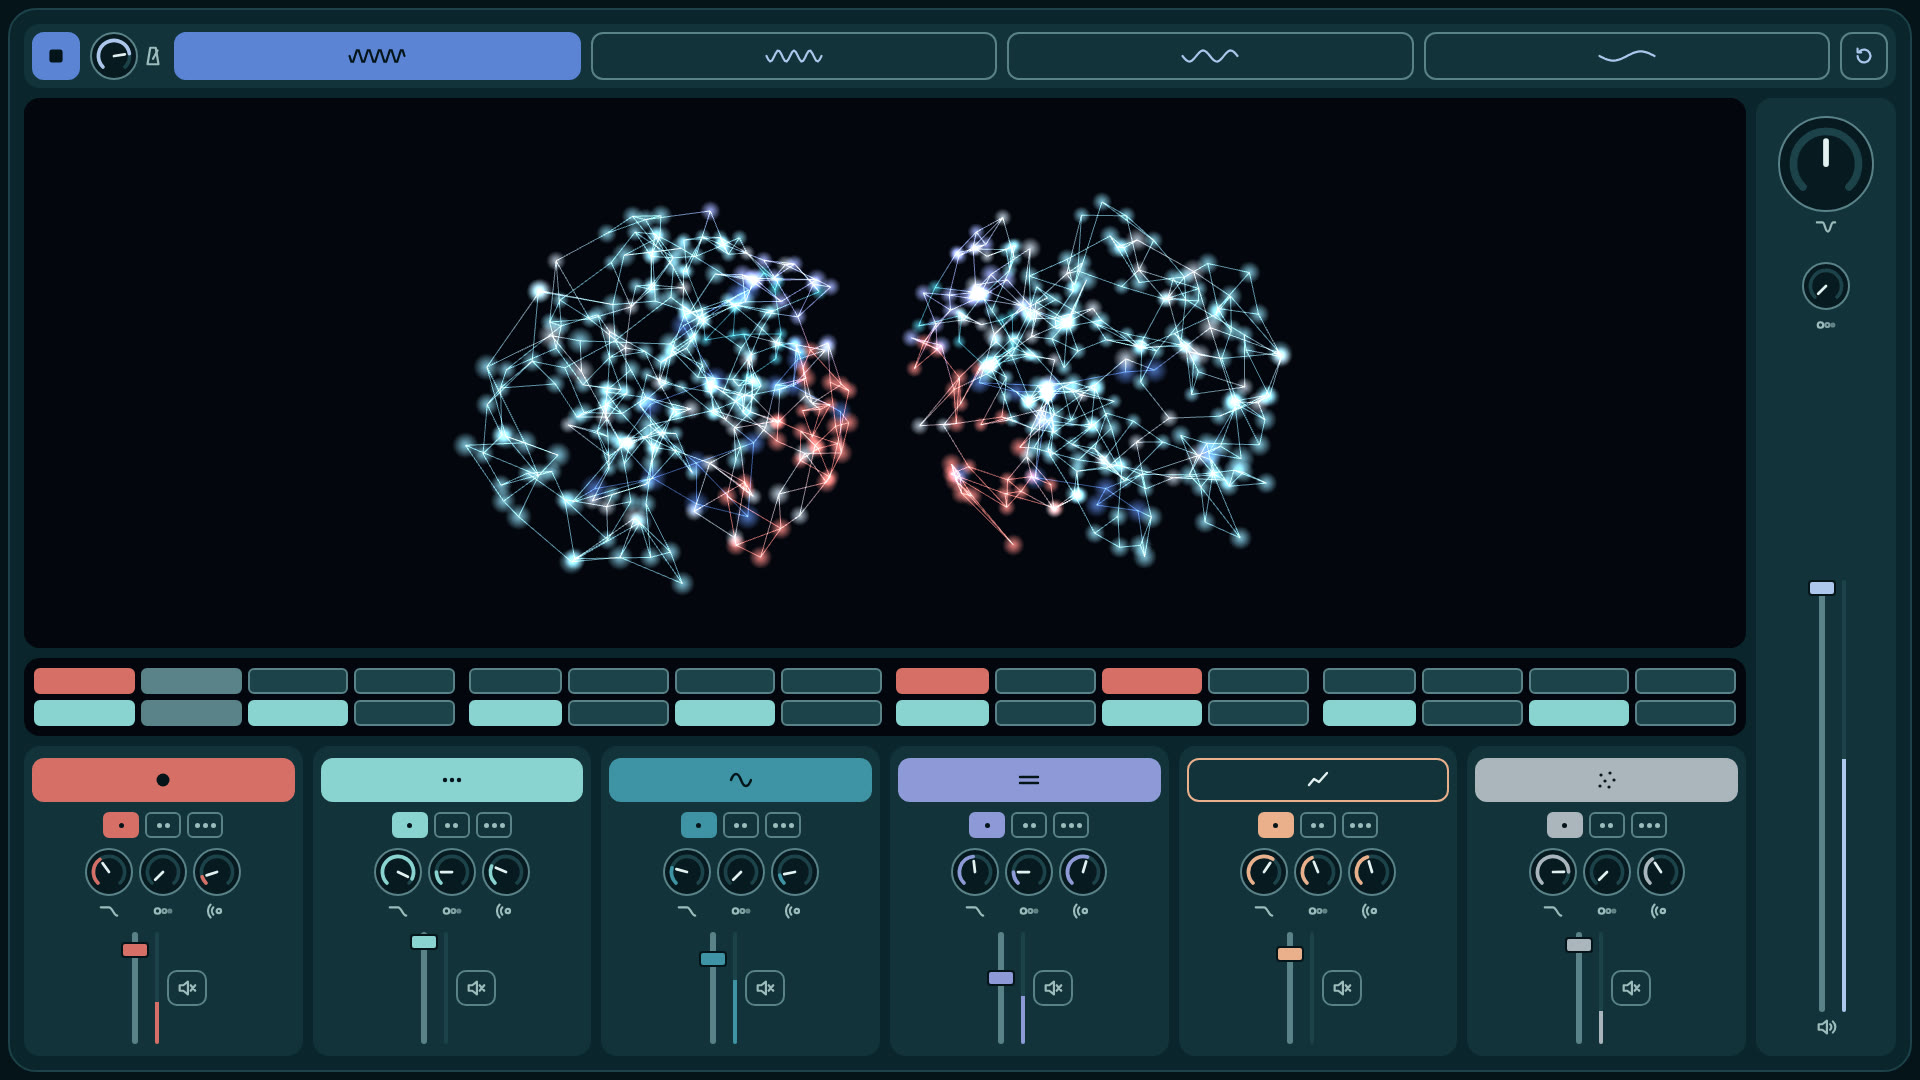
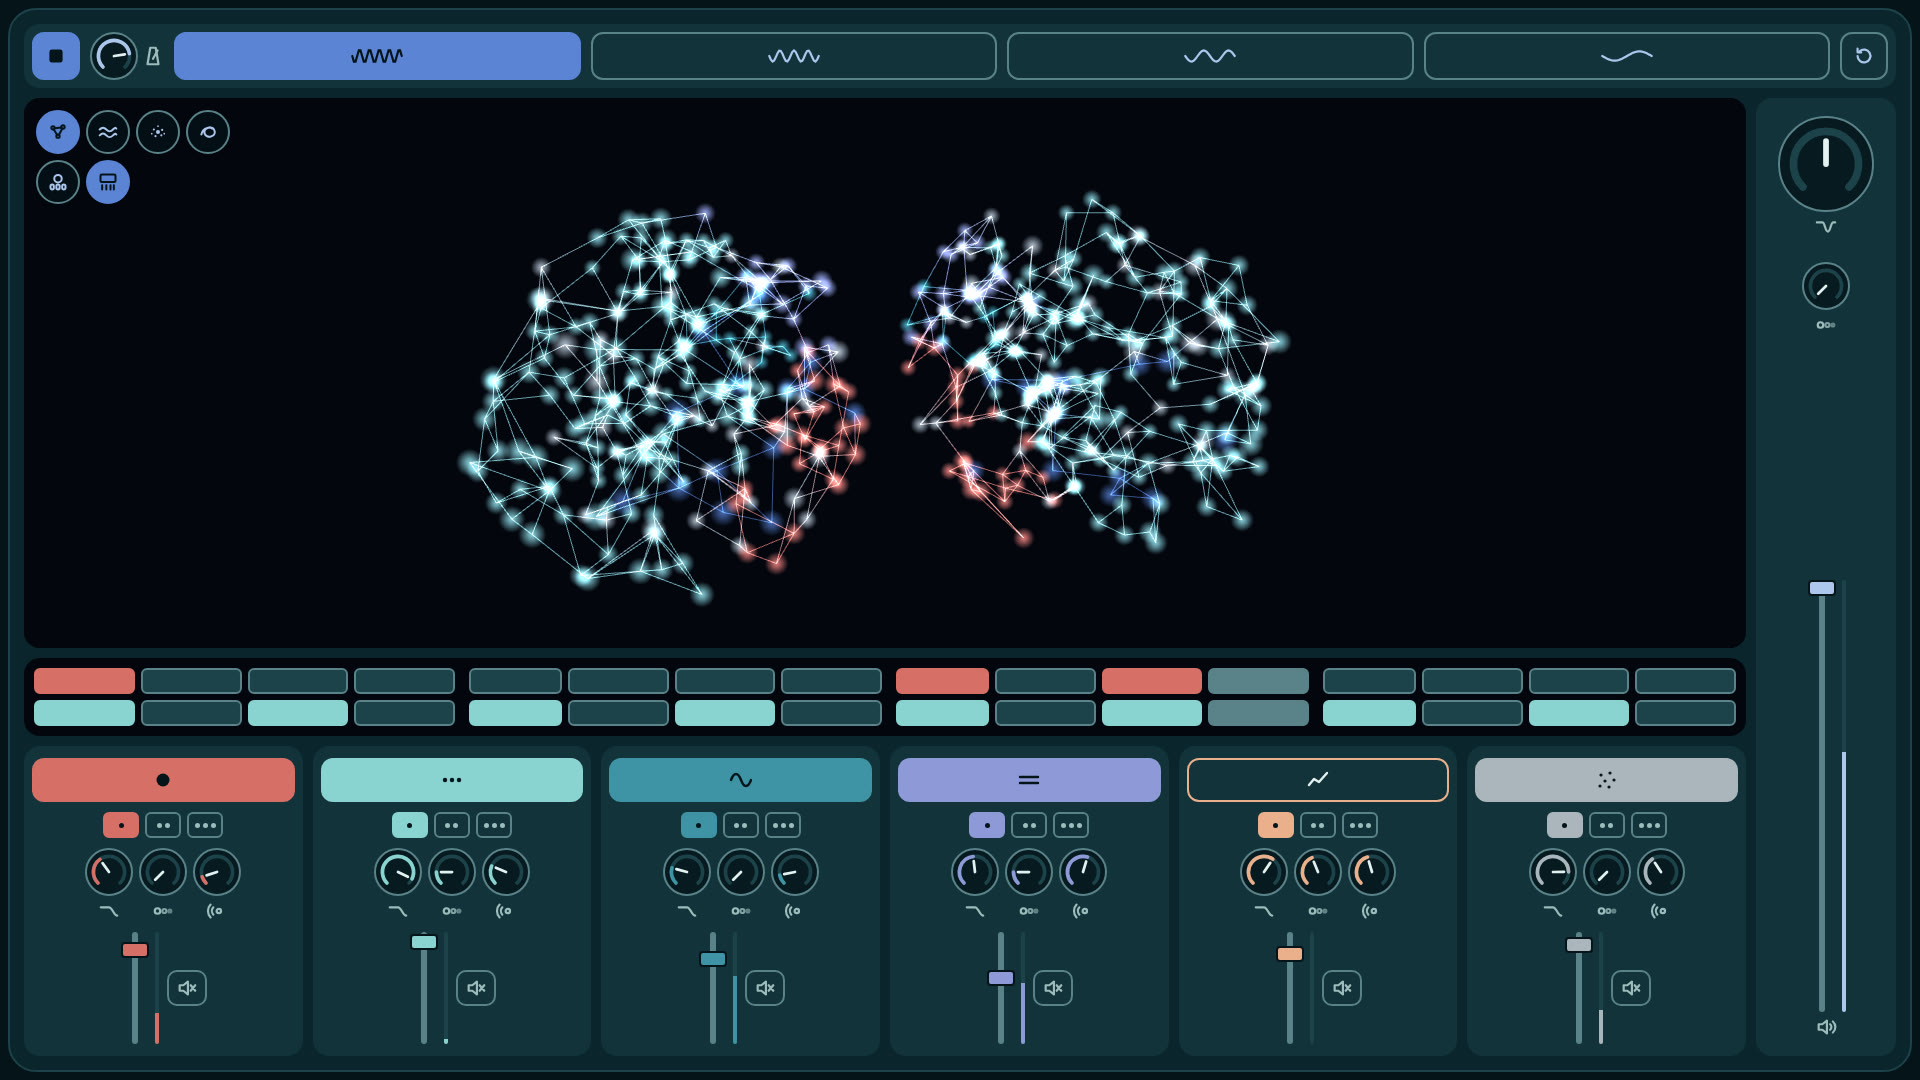
docs: views, mapping table and new screenshots

diff --git a/README.md b/README.md
@@ -19,6 +19,8 @@ python3 -m http.server 8000
 - http://localhost:8000: основная раскладка
 - http://localhost:8000/classic.html: классическая раскладка
 
+Под кнопкой старта два ряда переключателей: вид нейронов (сеть, волна, ядро, ленты) и раскладка. Вид хранится в адресе: `?view=network|flow|storm|ink`.
+
 ![Классическая раскладка](docs/screenshot-classic.jpg)
 
 ## Управление
@@ -41,6 +43,34 @@ python3 -m http.server 8000
 | 3 | 74 | без бочки, фильтр −25 % |
 | 4 | 70 | без перкуссии, фильтр −45 %, мастер −3 дБ |
 
+## Виды нейронов
+
+| | |
+| --- | --- |
+| ![Волна](docs/view-flow.jpg) | ![Ядро](docs/view-storm.jpg) |
+| ![Ленты](docs/view-ink.jpg) | |
+
+- `network`: 520 нейронов в двух полушариях, импульсы по связям.
+- `flow`: поле точек как кора, волны активности бегут по Simplex-шуму, полушария со сдвигом фазы.
+- `storm`: два облака по 18 000 точек, популяция дышит, спайки расходятся от центра.
+- `ink`: ленты-аксоны по орбитам вокруг стеклянной сферы, сигнал бежит по ленте своего слоя.
+
+Общая модель спайков (`src/views/spikes.js`): вспышка, волна по полушарию, затухание, рефрактерный период 0,14 с, редкая фоновая активность.
+
+| Синтезатор | Визуализация |
+| --- | --- |
+| нота слоя | спайк в популяции цвета слоя, полушария чередуются |
+| уровень слоя (Tone.Meter) | яркость популяции |
+| Mute, выключенный слой | популяция гаснет |
+| темп | скорость волны, дыхания, течения |
+| простор (реверб) | время затухания спайка |
+| DJ-фильтр закрыт | меньше видимых точек и связей, тусклее |
+| часть сета 1 → 4 | меньше насыщенности, плотности и энергии |
+| уровень мастера | энергия: амплитуда волн и вращения |
+| курсор | раздвигает точки (`flow`, `storm`), мышь крутит сцену |
+
+Один WebGL-рендерер на все виды, pixel ratio не больше 2, на скрытой вкладке кадры не рисуются, при смене вида геометрии и материалы освобождаются. При `prefers-reduced-motion` спайков нет, движение медленное.
+
 ## Архитектура
 
 ```
@@ -53,7 +83,8 @@ src/
   settings.js   данные: слои, вариации, части, мастер, клавиши
   audio.js      звуковой граф и транспорт, без DOM
   controls.js   ручка, движок, кнопки, растр
-  brain3d.js    3D-сеть, только читает состояние музыки
+  visuals.js    рендерер, переключение видов, сглаженное состояние музыки
+  views/        network, flow, storm, ink, модель спайков, шум
   icons.js      SVG-значки
   main.js       точка входа
 styles/
@@ -64,7 +95,7 @@ styles/
 
 - Квантование по такту считается в тиках транспорта: `'@1m'` считает в секундах и после плавной смены темпа промахивается.
 - Подсветка нот идёт через `Tone.getDraw()`, поэтому картинка совпадает со звуком.
-- Все контролы доступны с клавиатуры, у каждого `aria-label` со значением. При `prefers-reduced-motion` сеть не вращается.
+- Все контролы доступны с клавиатуры, у каждого `aria-label` со значением. При `prefers-reduced-motion` сеть не вращается, переходы частей без анимации.
 
 ## Стек
 
